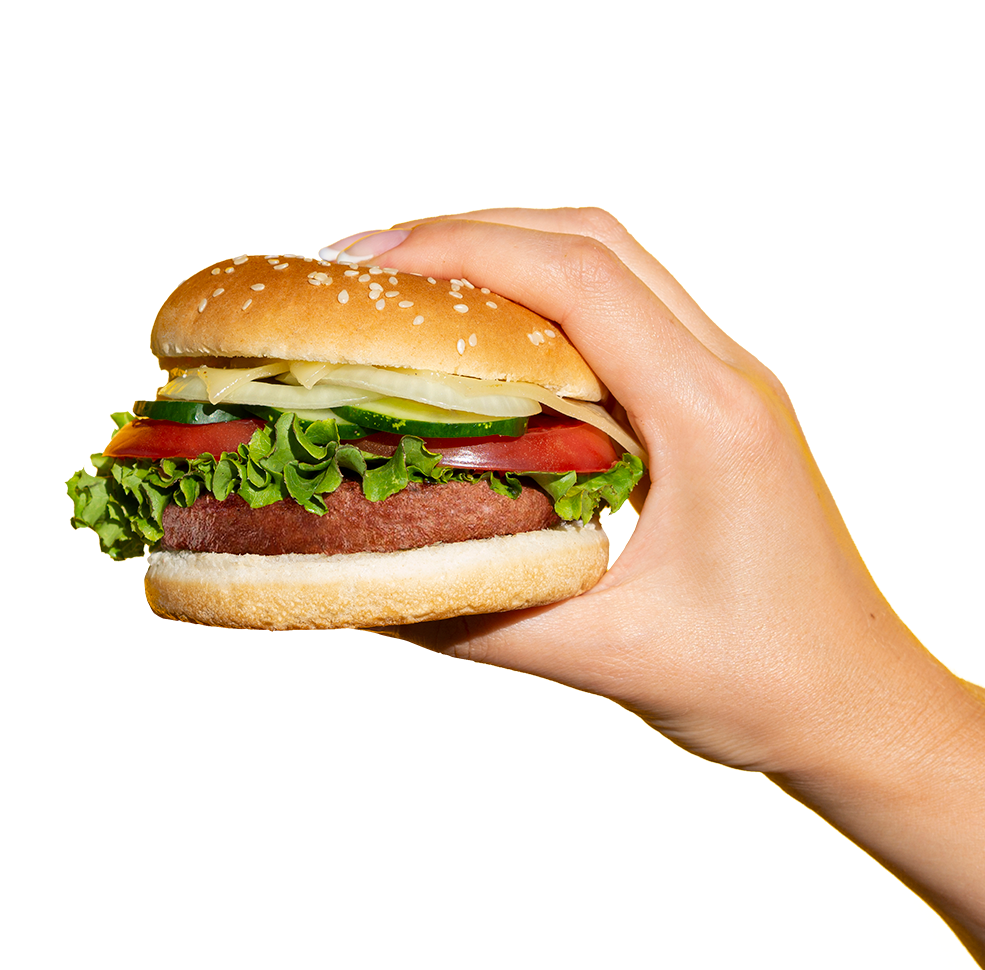
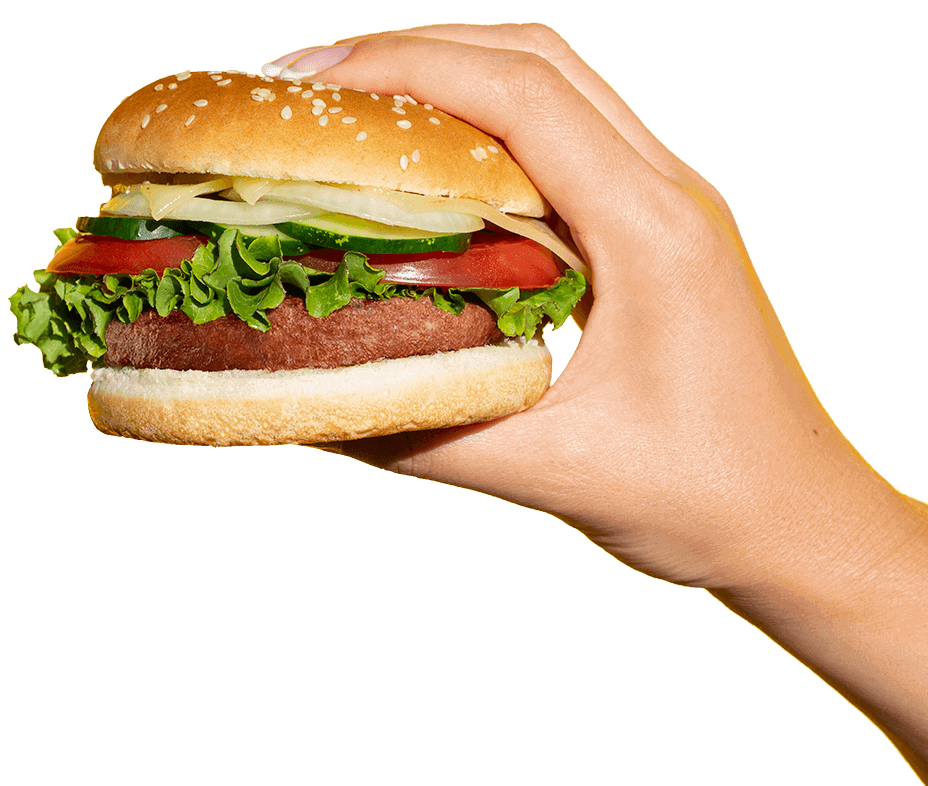
separated elements on parallax effect

diff --git a/src/pages/Index.vue b/src/pages/Index.vue
@@ -12,12 +12,14 @@
       <section class="flex flex-wrap">
         <div class="w-full md:w-6/12">
           <g-image src="../assets/images/muito_prazer.png" alt="Muito prazer"></g-image>
-          <g-image class="mt-40 md:mt-8" src="../assets/images/sottile.png" alt="somos a Sottile"></g-image>
+          <g-image class="mt-40 sm:mt-48 md:mt-8" src="../assets/images/sottile.png" alt="somos a Sottile"></g-image>
           <h1 class="sr-only">Muito prazer, somos a Sottile</h1>
           <p class="mt-8 text-gray-100 text-3xl tracking-widest">Vem aí um <strong>novo site</strong>.</p>
         </div>
         <div class="w-full md:w-6/12">
-          <g-image id="burger_img" data-rate="-0.4" class="parallax absolute right-0 mt-8 sm:mt-0" src="../assets/images/new_burger_sottile.png" alt="Mão segurando o New Burger da Sottile Alimentos"></g-image>
+          <g-image id="selo_img" data-rate="-0.3" class="parallax absolute mt-32 sm:mt-0 md:mt-40 lg:mt-16" src="../assets/images/selo.png" alt="Selo 100% vegetal"></g-image>
+          <g-image id="burger_img" data-rate="-0.5" class="parallax absolute right-0 mt-24 sm:mt-0 md:mt-32 lg:mt-0" src="../assets/images/hamburguer.png" alt="Mão segurando o New Burger da Sottile Alimentos"></g-image>
+          <g-image id="newburger_img" data-rate="-0.6" class="parallax absolute mt-20 md:mt-32 lg:mt-16" src="../assets/images/newburger.png" alt="Marca NewBurger"></g-image>
         </div>
       </section>
     </div>
@@ -144,6 +146,51 @@ export default {
 </script>
 
 <style lang="scss">
+  .parallax{
+    transition: transform 0.1s;
+  }
+
+  #selo_img{
+    top:450px;
+    left: 0;
+    max-width: 25vw;
+
+    @media screen and (min-width: 640px){
+      right: 60%;
+      left: unset;
+      top:450px
+    }
+
+    @media screen and (min-width: 768px){
+      right: 35%;
+      max-width: 18vw;
+      top:unset
+    }
+
+    @media screen and (min-width: 1024px){
+      right: 45%;
+      max-width: 20vw;
+    }
+  }
+
+  #newburger_img{
+    right: 10%;
+    top:400px;
+    max-width: 25vw;
+
+     @media screen and (min-width: 640px){
+      right: 15%;
+      top:400px;
+      max-width: 20vw;
+    }
+
+    @media screen and (min-width: 768px){
+      right: 10%;
+      top: unset;
+      max-width: 15vw;
+    }
+  }
+
   #burger_img{
     max-width: 90vw;
     top: 400px;
